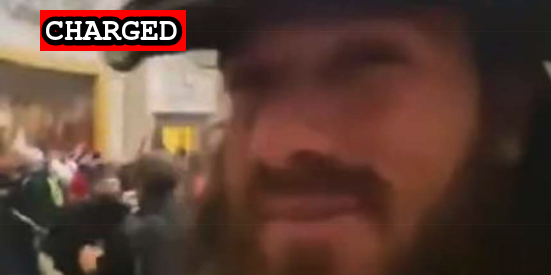
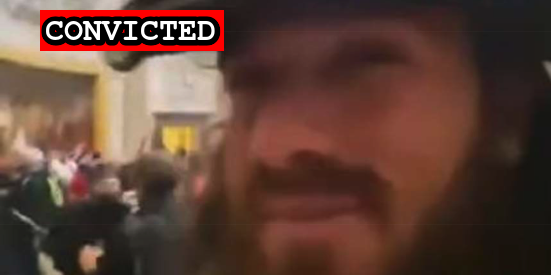
Gonzalez plea

Changed region(s): [[0.0926, 0.0291, 0.4319, 0.2036]]

diff --git a/commands/sheet-publish.ts b/commands/sheet-publish.ts
@@ -94,7 +94,7 @@ const publishSheet = async () => {
       Residence: suspect.residence,
       Age: suspect.age,
       "Case Number": suspect.caseNumber,
-      Hashtag: `#${suspect.hashtag}`,
+      Hashtag: `=HYPERLINK("https://twitter.com/search?q=%23${suspect.hashtag}", "#${suspect.hashtag}")`,
       "Sedition Track": suspectUrl,
       Charged: suspect.charged,
       Indicted: suspect.indicted,

diff --git a/docs/_suspects/eduardo-alvear-gonzalez.md b/docs/_suspects/eduardo-alvear-gonzalez.md
@@ -4,16 +4,16 @@ lastName: Alvear Gonzalez
 hashtag: DoobieSmoker
 aka: Lion Nick, Capitol Rotunda Doobie Smoker
 residence: California
-status: Charged
+status: Convicted
 date: 2021-01-31
 charged: 2021-01-31
 indicted:
-convicted:
+convicted: 2021-09-30
 sentenced:
 dismissed:
 deceased:
 plea_hearing: 2021-09-30
-sentencing:
+sentencing: 2021-01-05
 age: 32
 occupation:
 affiliations:
@@ -34,6 +34,10 @@ published: true
 caseNumber: 1:21-cr-115
 videos:
 charges:
+  - code: 18 USC § 5104(e)(2)(G)
+    title: Parading, demonstrating or picketing in a Capitol building
+    url: https://www.law.cornell.edu/uscode/text/40/5104
+    felony: false
 sentence:
 ---
 
